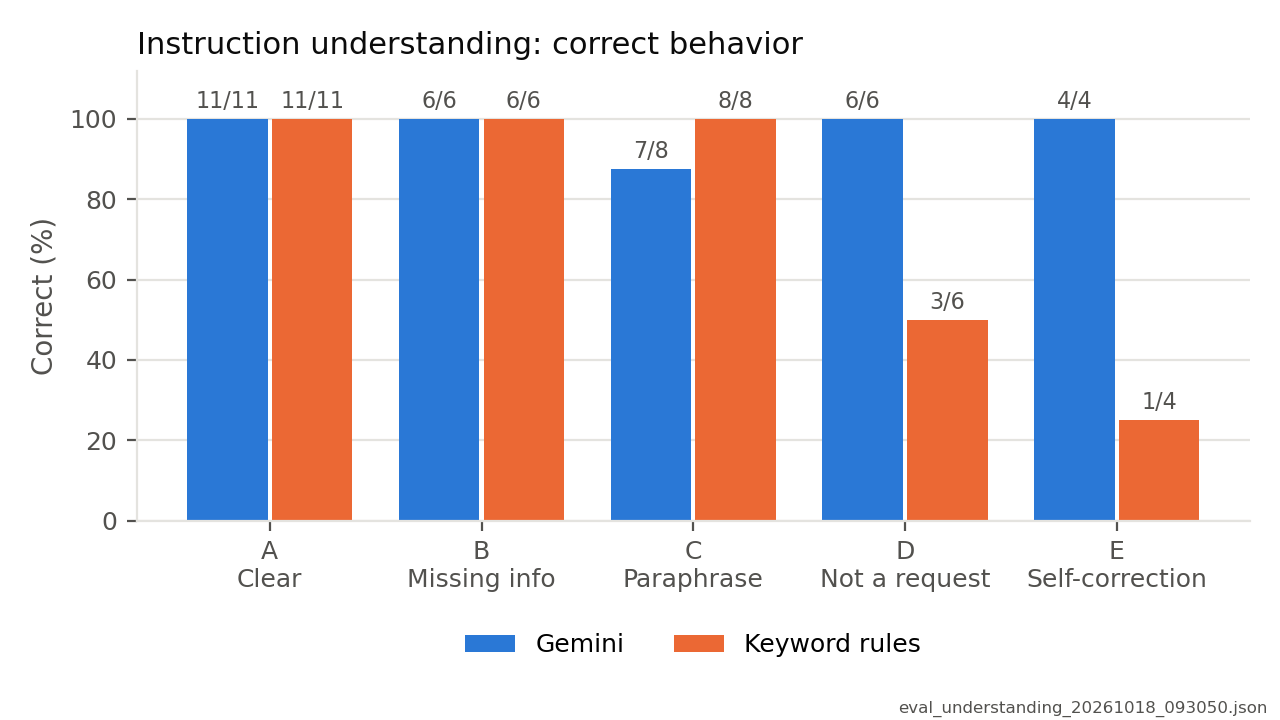
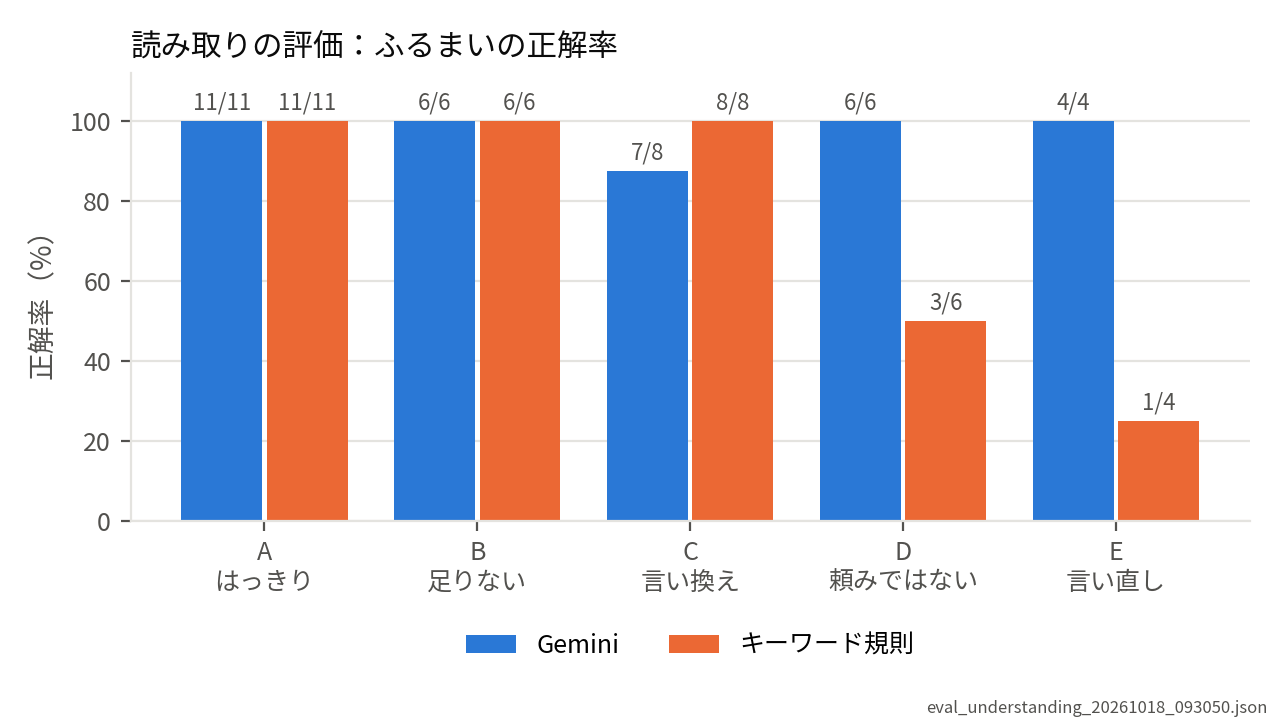
Dockerfile に版を書き込み、日本語フォントと鍵の置き場所（ボリューム）を足す。作り直した環境で同じ結果を確かめた

diff --git a/README.md b/README.md
@@ -66,7 +66,7 @@
 ### 準備
 
 1. このリポジトリを VS Code の開発コンテナ（`.devcontainer`）で開きます。
-2. Gemini の API キーを、環境変数 `GEMINI_API_KEY` に入れます（キーはファイルやリポジトリに書かないでください）。
+2. Gemini の API キーを、コンテナの `~/.secrets/gemini_key` に `export GEMINI_API_KEY=（キー）` の1行で書き、`chmod 600` で本人だけが読めるようにします。`~/.secrets` はボリューム（`kotoba-secrets`）なので、コンテナを作り直しても消えません。端末を開くと自動で読み込まれます。キーはリポジトリに書かないでください。
 3. ビルドします。
 ```
    cd /workspace
@@ -167,7 +167,7 @@ python3 -m pytest src/kotoba_hakobu/test/test_logic.py -q
 | Gemini（読み取り） | `gemini-3.5-flash-lite`（2026-10-15 に確認。無料枠：1分15回・1日500回） |
 | Python・OpenCV・NumPy・matplotlib・pytest | 3.10.12・4.5.4・1.21.5・3.5.1・6.2.5 |
 
-rosdep・apt で入れる部品（MoveIt 2 など）は、配布元が最新版のみを置いているため固定していない。Dockerfile への版の書き込みは、準備中です。
+土台のイメージ・CRANE+・pymoveit2 の版は、`.devcontainer/Dockerfile` に書き込んである（2026-10-18）。rosdep・apt で入れる部品（MoveIt 2・日本語フォントなど）は、配布元が最新版のみを置いているため固定していない。作り直した環境で、テスト（53個）が通ることと、お出しする評価の2試行が作り直す前と同じ数字になることを確かめた。
 
 ## 出典・参考にしたもの
 
